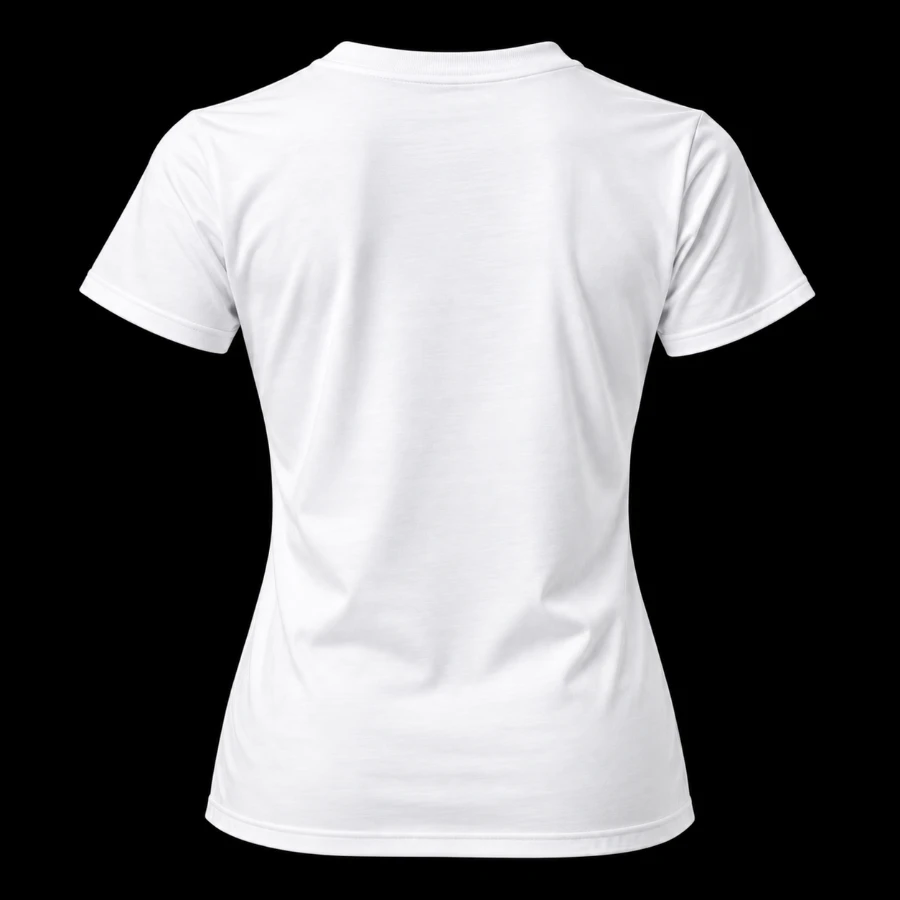
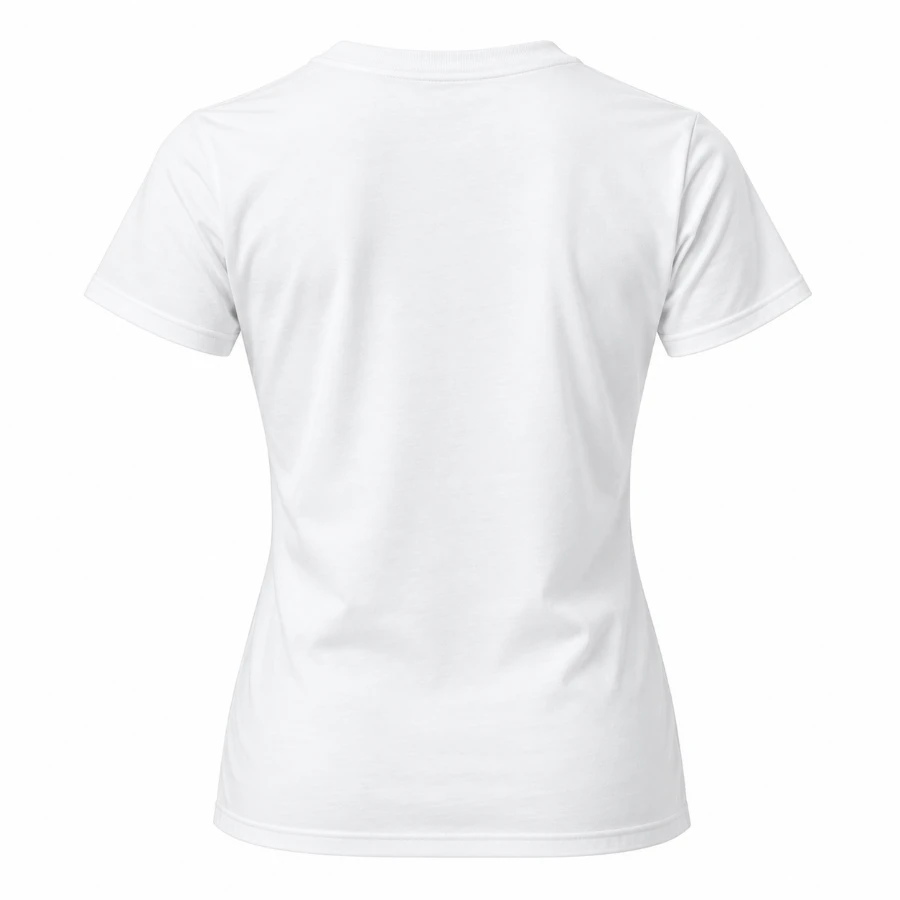
T-shirts: all photos on a white background
Claude-Session: https://claude.ai/code/session_019xa6L3VDLUS6Spv4RoBBK9

diff --git a/components/Designer.tsx b/components/Designer.tsx
@@ -3,7 +3,7 @@
 import Link from 'next/link'
 import { useState } from 'react'
 import FavouriteButton from './FavouriteButton'
-import ProductArt, { isDarkPhoto, photoColor } from './ProductArt'
+import ProductArt, { photoColor } from './ProductArt'
 import ShareButton from './ShareButton'
 import SizeChart from './SizeChart'
 import { addToCart } from '@/lib/cart'
@@ -96,11 +96,7 @@ export default function Designer({
     <div className="grid gap-4 pb-24 md:grid-cols-2 md:gap-10 md:pb-0">
       {/* Pinned under the header so the preview stays in view while choosing */}
       <div className="sticky top-[58px] z-10 -mx-4 self-start bg-paper px-4 pt-2 pb-2 md:top-20 md:mx-0 md:p-0">
-        <div
-          className={`relative overflow-hidden rounded-2xl border-2 border-ink p-2 transition-colors md:p-8 ${
-            isDarkPhoto(garment.art, color.hex, text, fit) ? 'bg-black' : 'bg-white'
-          }`}
-        >
+        <div className="relative rounded-2xl border-2 border-ink bg-white p-2 md:p-8">
           {/* keyed so switching item or colour fades the new one in instead of jumping */}
           <div key={`${garment.id}/${color.name}/${fit}`} className="animate-swap">
             <ProductArt

diff --git a/components/ProductArt.tsx b/components/ProductArt.tsx
@@ -247,7 +247,7 @@ const photo = (
 // gallery shows a mix of people. Add more photos as extra entries in an array.
 // Product-only photos (no people). Items without one fall back to the drawing.
 const PHOTOS: Record<string, Photo | Photo[]> = {
-  // T-shirts: relaxed cut on a white background; fitted white and yellow on black
+  // T-shirts, all on a white background
   'tee:#1b1b1b': [photo('t-tee-black-m', 900, 900, 450, 290, 370, 290)],
   'tee:#f4f4f0': [photo('t-tee-white-m', 900, 900, 450, 290, 370, 290)],
   'tee:#e8f525': [photo('t-tee-yellow-m', 900, 900, 450, 290, 370, 290)],
@@ -375,12 +375,6 @@ function photoFor(art: Art, color: string, slogan: string, fit?: Fit) {
   let hash = 0
   for (const ch of slogan) hash = (hash * 31 + ch.charCodeAt(0)) | 0
   return found[Math.abs(hash) % found.length]
-}
-
-// Photos shot on a black background (fitted white and yellow tees)
-export function isDarkPhoto(art: Art, color: string, slogan: string, fit?: Fit) {
-  const p = photoFor(art, color, slogan, fit)
-  return Boolean(p && /t-tee-(white|yellow)-w/.test(p.src))
 }
 
 export function hasPhoto(art: Art, color: string, slogan: string, fit?: Fit) {

diff --git a/components/SloganCard.tsx b/components/SloganCard.tsx
@@ -3,7 +3,7 @@
 import Link from 'next/link'
 import { useRef, useState } from 'react'
 import FavouriteButton from './FavouriteButton'
-import ProductArt, { hasPhoto, isDarkPhoto, photoColor } from './ProductArt'
+import ProductArt, { hasPhoto, photoColor } from './ProductArt'
 import ShareButton from './ShareButton'
 import {
   collections,
@@ -70,9 +70,7 @@ export default function SloganCard({
               key={g.id}
               href={designHref({ slogan: slogan.id, garment: g.id })}
               aria-label={`${title} on ${g.withArticle}`}
-              className={`block w-full shrink-0 snap-center p-6 ${
-                isDarkPhoto(g.art, c.hex, sloganText(slogan)) ? 'bg-black' : ''
-              }`}
+              className="block w-full shrink-0 snap-center p-6"
             >
               <ProductArt
                 art={g.art}
